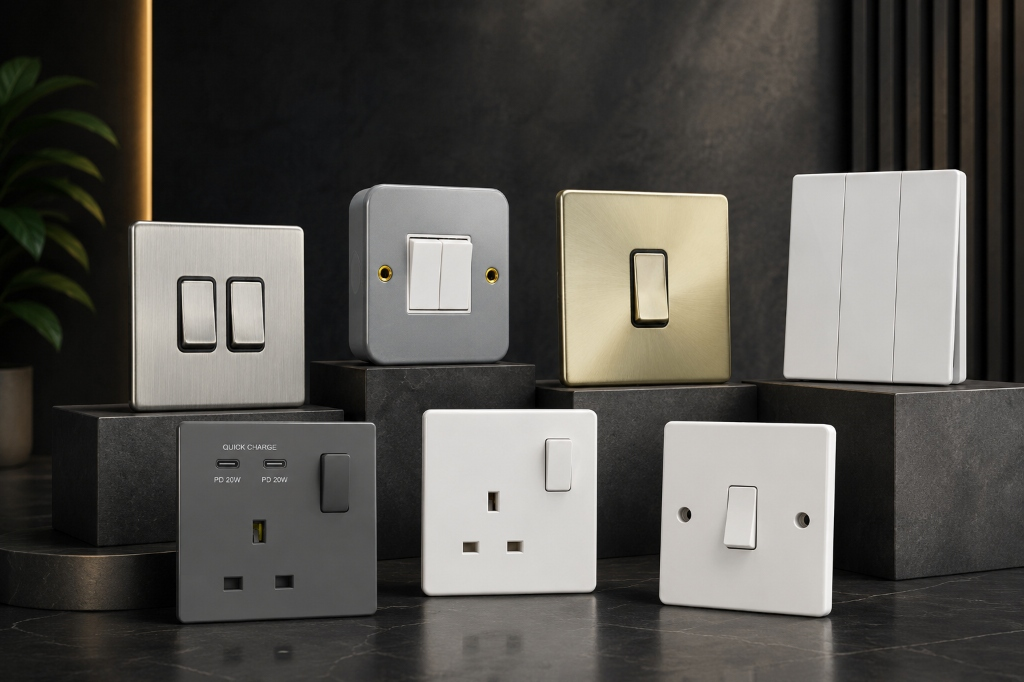
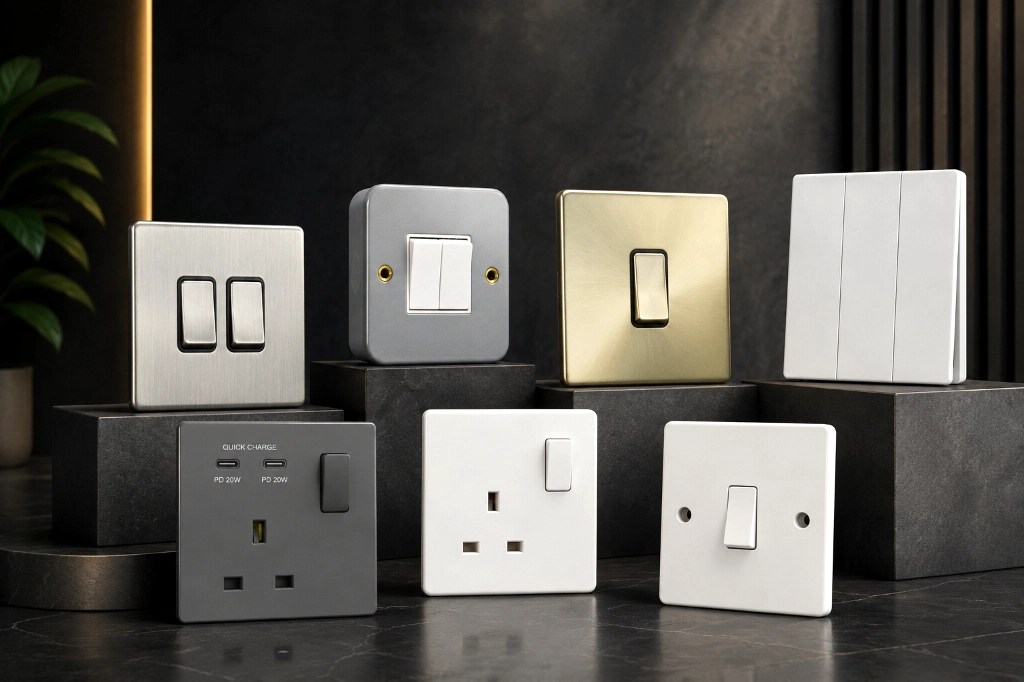
fix(switches): illuminate hero background image by reducing heavy dark gradient overlay

diff --git a/switches.html b/switches.html
@@ -34,7 +34,7 @@
     }
 
     .switches-hero {
-      background-image: linear-gradient(90deg, rgba(0, 0, 0, 0.85) 0%, rgba(0, 0, 0, 0.45) 60%, rgba(0, 0, 0, 0.15) 100%), url('/assets/products/switches/switches_sockets_hero.webp');
+      background-image: linear-gradient(90deg, rgba(0, 0, 0, 0.45) 0%, rgba(0, 0, 0, 0.15) 50%, rgba(0, 0, 0, 0.05) 100%), url('/assets/products/switches/switches_sockets_hero.webp');
       background-size: cover;
       background-position: center;
       padding: 120px 0;
